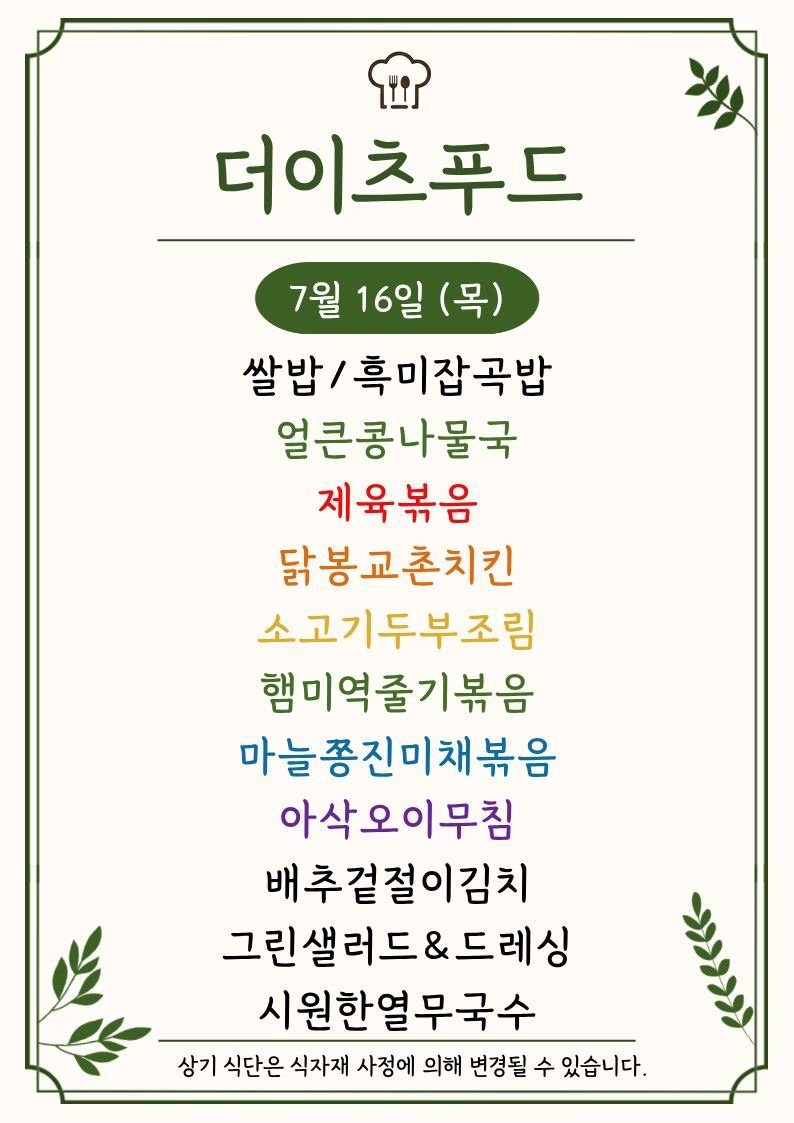
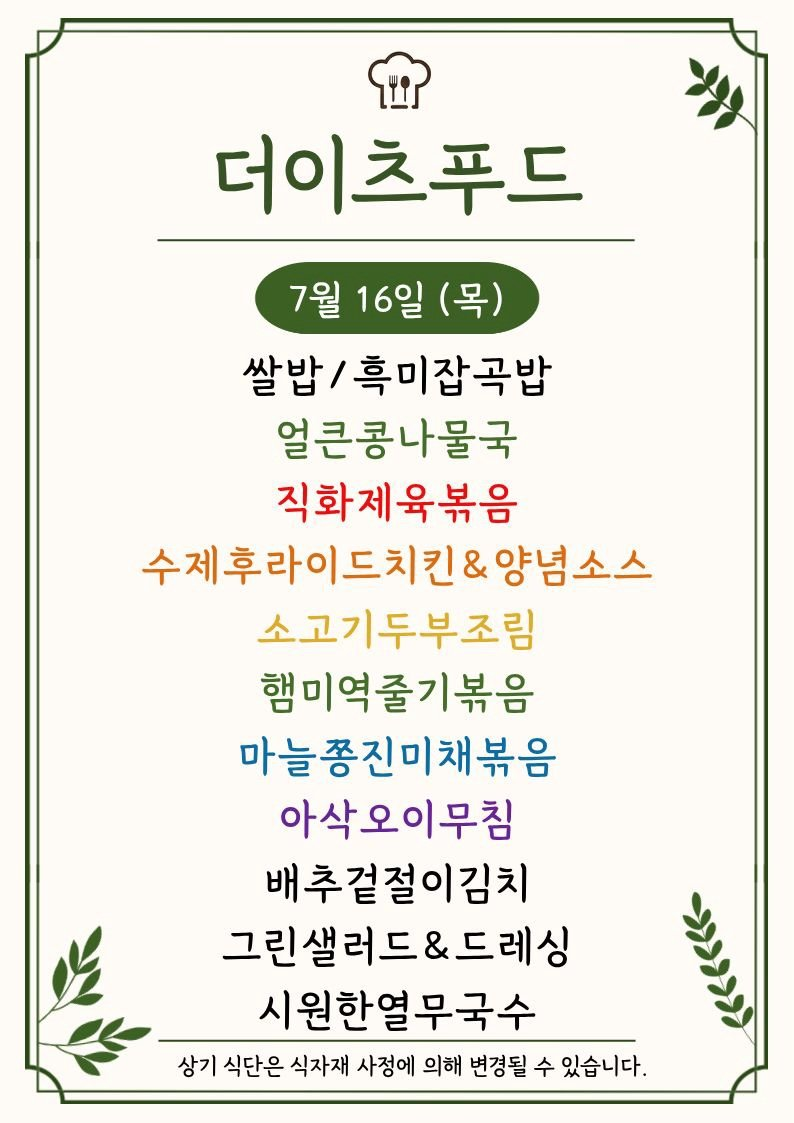
Update menu board assets

Changed region(s): [[0.1814, 0.4052, 0.8161, 0.5298]]

diff --git a/guro-menu/index.html b/guro-menu/index.html
@@ -32,7 +32,7 @@
   </header>
   <section class="meta">
     <div><small>기준 날짜</small><strong>2026년 7월 16일 목요일</strong></div>
-    <div><small>최종 갱신</small><strong>2026-07-16 11:04:11</strong></div>
+    <div><small>최종 갱신</small><strong>2026-07-16 11:13:41</strong></div>
     <div><small>등록 식당</small><strong>5개</strong></div>
   </section>
   <div class="notice">공개 카카오 채널의 메뉴 이미지를 자동 수집하고 OCR로 정리합니다. 텍스트에 오타가 있을 수 있으니 식단 이미지를 함께 확인해 주세요.</div>
@@ -75,8 +75,8 @@
           <a class="channel" href="https://pf.kakao.com/_xeVwxnn" target="_blank" rel="noopener">원본 채널</a>
         </div>
         <img class="menu-image" src="./images/the-eats-food.png" alt="더이츠푸드 식단 이미지" loading="lazy">
-        <p class="message">최신 공개 식단 이미지의 텍스트입니다. 날짜는 원본 이미지를 확인해 주세요.</p>
-        <ul><li>더이즈푸드</li><li>쌀밥/흑미잡곡밥</li><li>얼큰콩나물국</li><li>제육볶음</li><li>닭봉교촌치킨</li><li>햄미역줄기볶음</li><li>아삭오이무침</li><li>배추겉절이김치 y</li><li>그린샐러드&amp;드레싱 이</li><li>시원한열무국수 Y</li></ul>
+        
+        <ul><li>쌀밥/흑미잡곡밥</li><li>얼큰콩나물국</li><li>직화제육볶음</li><li>수제후라이드치킨&amp;양념소스</li><li>햄미역줄기볶음</li><li>마늘종진미채볶음</li><li>아삭오이무침</li><li>배추겉절이김치</li><li>그린샐러드&amp;드레싱 Y</li><li>시원한열무국수</li></ul>
       </article>
 
       <article class="restaurant-card">

diff --git a/menu-today/index.html b/menu-today/index.html
@@ -209,7 +209,7 @@
 
     <section class="meta-bar">
       <div class="meta-card"><div class="meta-label">기준 날짜</div><div class="meta-value">2026년 7월 16일 목요일</div></div>
-      <div class="meta-card"><div class="meta-label">최종 가져온 시간</div><div class="meta-value">2026-07-16 11:03:57</div></div>
+      <div class="meta-card"><div class="meta-label">최종 가져온 시간</div><div class="meta-value">2026-07-16 11:13:27</div></div>
       <div class="meta-card"><div class="meta-label">확인 완료</div><div class="meta-value">9개 식당</div></div>
       <div class="meta-card"><div class="meta-label">준비중</div><div class="meta-value">3개 채널</div></div>
     </section>
